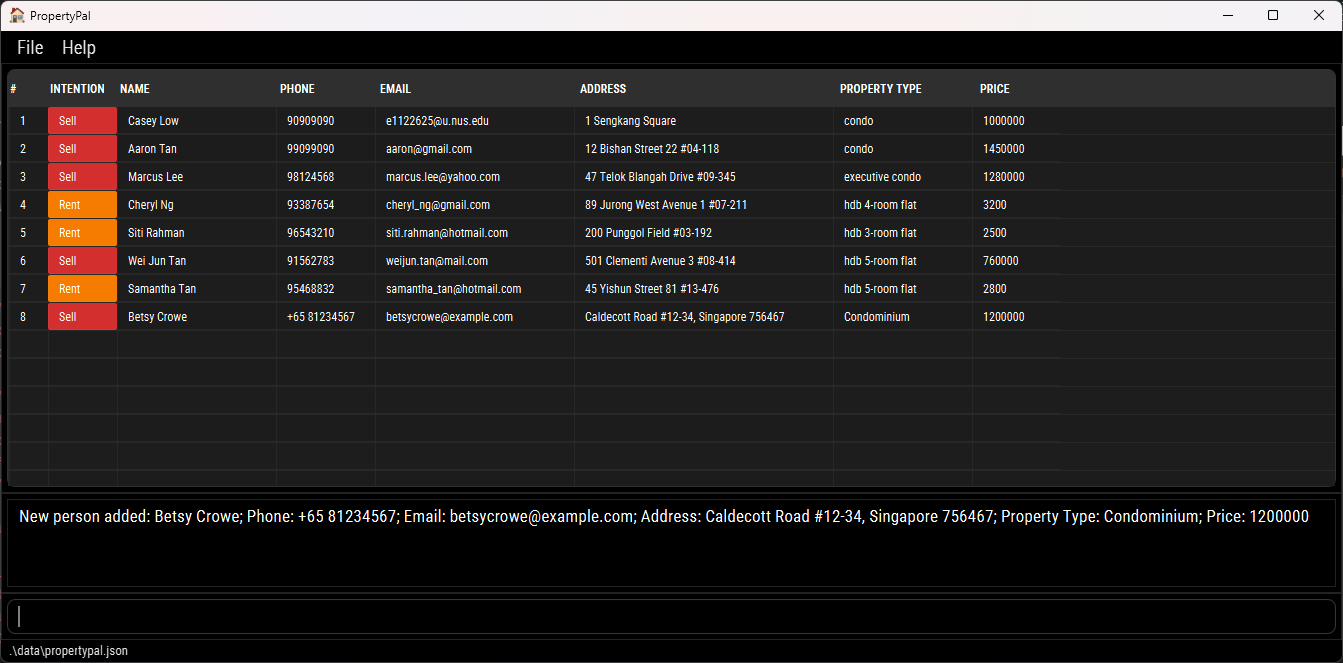
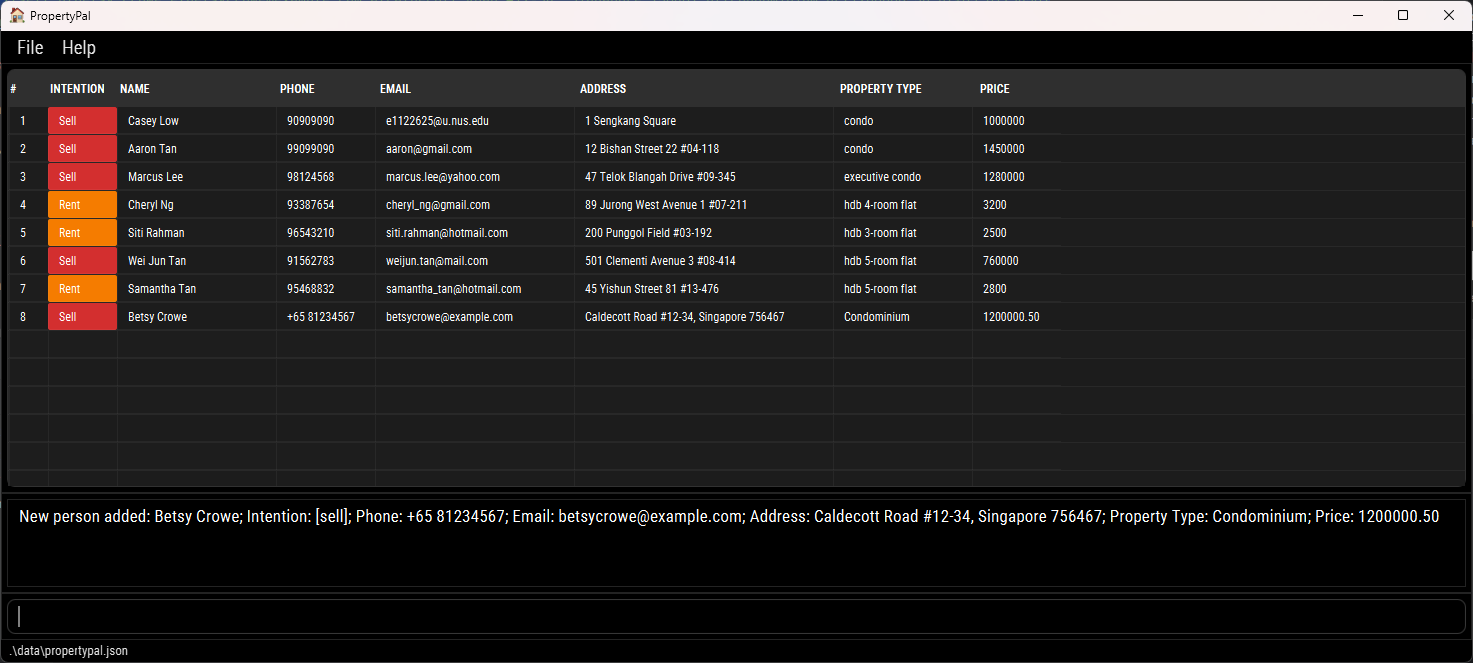
Made corrections

diff --git a/docs/UserGuide.md b/docs/UserGuide.md
@@ -15,12 +15,12 @@ PropertyPal is a **desktop application** that helps **real estate agents** manag
 
 ## Quick start
 
-1. Ensure you have Java `17` or above installed in your Computer.<br> Java 17 can be downloaded from [here](https://www.oracle.com/java/technologies/downloads/#java17). Make sure that you choose the correct Operating System.<br>
+1. Ensure you have Java `17` or above installed on your Computer.<br> Java 17 can be downloaded from [here](https://www.oracle.com/java/technologies/downloads/#java17). Make sure that you choose the correct Operating System.<br>
    **Mac users:** Ensure you have the precise JDK version prescribed [here](https://se-education.org/guides/tutorials/javaInstallationMac.html).
 
 2. Download the latest `.jar` file from [here](https://github.com/AY2526S1-CS2103-F10-2/tp/releases).
 
-3. Create a new empty folder at a location of your choice in your Computer.
+3. Create a new empty folder at a location of your choice on your computer.
 
 4. Copy the file to the folder you created in step 3 to use as the _home folder_ for your PropertyPal.
 
@@ -64,15 +64,15 @@ Clicking a row highlights it, making it easier for users to focus on a particula
 
 All fields in PropertyPal are **case-insensitive** — searches and comparisons ignore case, but entries are displayed exactly as entered by the user.
 
-| **Field**                 | **Validation Rules**                                                                                                                                                                                                                                                                                                      | **Valid Examples**                                                             | **Invalid Examples**                                            |
-| ------------------------- |---------------------------------------------------------------------------------------------------------------------------------------------------------------------------------------------------------------------------------------------------------------------------------------------------------------------------|--------------------------------------------------------------------------------|-----------------------------------------------------------------|
-| **Intention (`i/`)**      | Must be either `sell` or `rent`.                                                                                                                                                                                                                                                                                          | `i/sell`, `i/rent`, `i/Rent`                                                   | `i/selling`, `i/lease`                                          |
-| **Name (`n/`)**           | Must start with a letter and contain only letters, numbers, accents, spaces, periods, apostrophes, or hyphens.                                                                                                                                                                                                            | `n/John Doe`, `n/Anne-Marie Tan`, `n/O’Connor`, `n/José Álvarez`               | `n/@John`, `n/  `, `n/#Peter`                                   |
-| **Phone (`p/`)**          | May begin with a `+`, followed by digits, spaces, or dashes. Must contain at least **7 digits total**.                                                                                                                                                                                                                    | `p/98765432`, `p/+65 9123 4567`, `p/123-4567`                                  | `p/12-34`, `p/abc123`, `p/++6598765432`                         |
-| **Email (`e/`)**          | Must follow the format `<local-part>@<domain>`. The local part may contain alphanumeric characters and `.`, `_`, `+`, or `-` (not starting/ending with them). The domain must consist of labels separated by `.` that each start and end with an alphanumeric character, with the final label at least 2 characters long. | `e/johndoe@example.com`, `e/casey_low@yahoo.com.sg`, `e/user123@gmail.com`     | `e/@gmail.com`, `e/user@@mail.com`, `e/john@`, `e/john@.com`    |
-| **Address (`a/`)**        | Cannot be blank or start with a whitespace. May contain any characters after the first non-space.                                                                                                                                                                                                                         | `a/Blk 425, Clementi Ave 1 #03-45 120425`, `a/12 Bishan St 22`                 | `a/ ` (blank), `a/   45 Clementi` *(starts with space)*         |
-| **Property Type (`pt/`)** | Up to 100 characters, cannot be blank or start with a space.                                                                                                                                                                                                                                                              | `pt/HDB 3 room flat`, `pt/Condominium`, `pt/Landed house`                      | `pt/ `, `pt/`                                                   |
-| **Price (`pr/`)**         | Must be a positive number ≤ 13 digits, optionally with commas and up to **2 decimal places**. Cannot be blank or contain symbols other than commas or one decimal point.                                                                                                                                                  | `pr/450000`, `pr/1,200,000`, `pr/4700.50`                                      | `pr/-5000`, `pr/$2000`, `pr/1,000.000`, `pr/`, `pr/100,00,0`    |
+| **Field**                 | **Validation Rules**                                                                                                                                                                                                                                                                                                      | **Valid Examples**                                                         | **Invalid Examples**                                            |
+| ------------------------- |---------------------------------------------------------------------------------------------------------------------------------------------------------------------------------------------------------------------------------------------------------------------------------------------------------------------------|----------------------------------------------------------------------------|-----------------------------------------------------------------|
+| **Intention (`i/`)**      | Must be either `sell` or `rent`.                                                                                                                                                                                                                                                                                          | `i/sell`, `i/rent`, `i/Rent`                                               | `i/selling`, `i/lease`                                          |
+| **Name (`n/`)**           | Must start with a letter and contain only letters, numbers, accents, spaces, periods, apostrophes, or hyphens.                                                                                                                                                                                                            | `n/John Doe`, `n/Anne-Marie Tan`, `n/O’Connor`, `n/José Álvarez`           | `n/@John`, `n/  `, `n/#Peter`                                   |
+| **Phone (`p/`)**          | May begin with a `+`, followed by digits, spaces, or dashes. Must contain at least **7 digits total**.                                                                                                                                                                                                                    | `p/98765432`, `p/+65 9123 4567`, `p/123-4567`                              | `p/12-34`, `p/abc123`, `p/++6598765432`                         |
+| **Email (`e/`)**          | Must follow the format `<local-part>@<domain>`. The local part may contain alphanumeric characters and `.`, `_`, `+`, or `-` (not starting/ending with them). The domain must consist of labels separated by `.` that each start and end with an alphanumeric character, with the final label at least 2 characters long. | `e/johndoe@example.com`, `e/casey_low@yahoo.com.sg`, `e/user123@gmail.com` | `e/@gmail.com`, `e/user@@mail.com`, `e/john@`, `e/john@.com`    |
+| **Address (`a/`)**        | Cannot be blank or start with a whitespace. May contain any characters after the first non-space.                                                                                                                                                                                                                         | `a/Blk 425, Clementi Ave 1 #03-45 120425`, `a/12 Bishan St 22`             | `a/ ` (blank), `a/   45 Clementi` *(starts with space)*         |
+| **Property Type (`pt/`)** | Up to 100 characters, cannot be blank or start with a space.                                                                                                                                                                                                                                                              | `pt/HDB 3 room flat`, `pt/Condominium`, `pt/Landed house`                  | `pt/ `, `pt/`                                                   |
+| **Price (`pr/`)**         | Must be a positive number ≤ 13 digits, optionally with commas and up to **2 decimal places**. Cannot be blank or contain symbols other than commas or one decimal point.                                                                                                                                                  | `pr/450000`, `pr/1,200,000`, `pr/4700.50`, `pr/700,000`                    | `pr/-5000`, `pr/$2000`, `pr/1,000.000`, `pr/`, `pr/100,00,0`    |
 
 
 --------------------------------------------------------------------------------------------------------------------
@@ -151,7 +151,7 @@ Format: `edit INDEX [i/INTENTION] [n/NAME] [p/PHONE_NUMBER] [e/EMAIL] [a/ADDRESS
 
 Examples:
 *  `edit 2 p/99099090 e/aaron@gmail.com` Edits the phone number and email address of the 2nd person to be `99099090` and `aaron@gmail.com` respectively.
-    * A prompt showing the edited contact with the new information will be displayed. (e.g. `Edited Person: Aaron Tan; Phone: 99099090; Email: aaron@gmail.com; Address: 12 Bishan Street 22 #04-118; Property Type: condo; Price: 1450000`)
+    * A prompt showing the edited contact with the new information will be displayed. (e.g. `Edited Person: Aaron Tan; Intention: [sell]; Phone: 99099090; Email: aaron@gmail.com; Address: 12 Bishan Street 22 #04-118; Property Type: condo; Price: 1450000`)
       ![result for 'edit 2 p/99099090 e/aaron@gmail.com'](images/editresult.png)
 
 ### Locating persons by prefix: `find`
@@ -167,7 +167,7 @@ Format: `find [i/INTENTION]… [n/NAME]… [p/PHONE_NUMBER]… [e/EMAIL
 * **Price field matches the exact value.**  e.g. `find pr/36` will not list a property with price 3600
 * Parameters can appear in any order.
 * The order of the keywords does not matter. e.g. `Hans Bo` will match `Bo Hans`.
-* Persons matching **at least one given keyword** will be returned. Each keyword **must** be separated by a space.
+* Persons matching **at least one given keyword** will be returned. Each keyword is separated by a space.
   e.g. `find n/Alice Casey` will return `Alice Tan`, `Casey Low` as results in the contact list.
   <br><br>
 * Finding by Price:
@@ -179,7 +179,7 @@ Examples:
 * `find p/9123` — finds persons whose phone number contains “9123”.
 * `find e/gmail` — finds persons whose email contains “gmail”.
 * `find a/Clementi` — finds persons whose address contains “Clementi”.
-* `find n/John p/9123` — finds persons whose name, phone match any of the given keywords.
+* `find n/John p/9123` — finds persons whose name, phone match any of the given keywords.<br>
   ![result for 'find n/John p/9123'](images/findJohn9123Result.png)
 
 
@@ -191,14 +191,14 @@ Format: `delete INDEX` or `delete n/NAME [n/NAME]…`
 
 * Deletes a single person at the specified `INDEX`, OR one or more persons by exact `NAME`(s). Do not mix index and names in the same command.
 * The index refers to the index number shown in the displayed person list. The index must be a positive integer: 1, 2, 3, …
-* For deletion by name, each `NAME` must match a contact’s full name exactly (case-insensitive). If multiple contacts share the same exact name, all contacts of the same name are deleted.
+* For deletion by name, each `NAME` must match a contact’s full name exactly (case-insensitive). If multiple contacts share the same exact name, **all** contacts of the same name are deleted.
 * When deleting multiple persons by name, PropertyPal will first show a confirmation prompt listing the persons to be deleted; add `yes` to proceed.
 * Deleting multiple names is all‑or‑nothing: if any given name is not found, nobody is deleted and an error listing the missing names is shown.
 
 + Note about deletion by name:
     + When you provide a `NAME` to delete (e.g., `delete n/John Doe`), PropertyPal will now match and delete all persons whose full name exactly matches `John Doe` (case-insensitive matching is used internally). If the name matches multiple entries, the application will display a confirmation warning listing all matched entries and append a note such as:
         +  `Note: Multiple entries found for 'John Doe' — all matching entries will be deleted.`
-        +  You can then type `yes` to confirm or `no` to abort.
+        +  You can then type `yes` to confirm or `no` to abort.<br>
            ![deleting multiple names](images/deleteMultipleNames.png)
 
 Examples:
@@ -257,8 +257,8 @@ Action     | Format, Examples
 -----------|----------------------------------------------------------------------------------------------------------------------------------------------------------------------
 **Add**    | `add i/INTENTION n/NAME p/PHONE_NUMBER e/EMAIL a/ADDRESS pt/PROPERTY_TYPE pr/PRICE` <br> e.g., `add i/sell n/James Ho p/22224444 e/jamesho@example.com a/123, Clementi Rd, 1234665 pt/HDB 3 room flat pr/470000`
 **Clear**  | `clear`
-**Delete** | `delete INDEX` or `delete n/NAME [n/NAME]… [yes]`<br> e.g., `delete 3` or `delete n/John Doe n/Jane Smith` followed by `yes`
+**Delete** | `delete INDEX` or `delete n/NAME [n/NAME]…`<br> e.g., `delete 3` or `delete n/John Doe n/Jane Smith` followed by `yes`
 **Edit**   | `edit INDEX [n/NAME] [p/PHONE_NUMBER] [e/EMAIL] [a/ADDRESS] [pt/PROPERTY_TYPE] [pr/PRICE]`<br> e.g.,`edit 2 n/James Lee e/jameslee@example.com`
-**Find**   | `find [i/INTENTION] [n/NAME]… [p/PHONE_NUMBER]… [e/EMAIL]… [a/ADDRESS]… [pt/PROPERTY_TYPE] [pr/PRICE]`<br> e.g., `find n/James p/9876 e/gmail a/Clementi`
+**Find**   | `find [i/INTENTION]… [n/NAME]… [p/PHONE_NUMBER]… [e/EMAIL]… [a/ADDRESS]… [pt/PROPERTY_TYPE]… [pr/PRICE]…`<br> e.g., `find n/James p/9876 e/gmail a/Clementi`
 **List**   | `list`
 **Help**   | `help`
